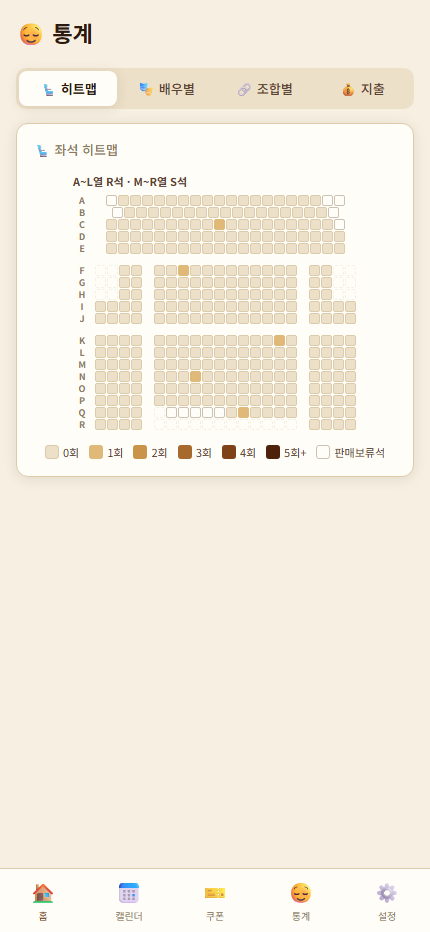
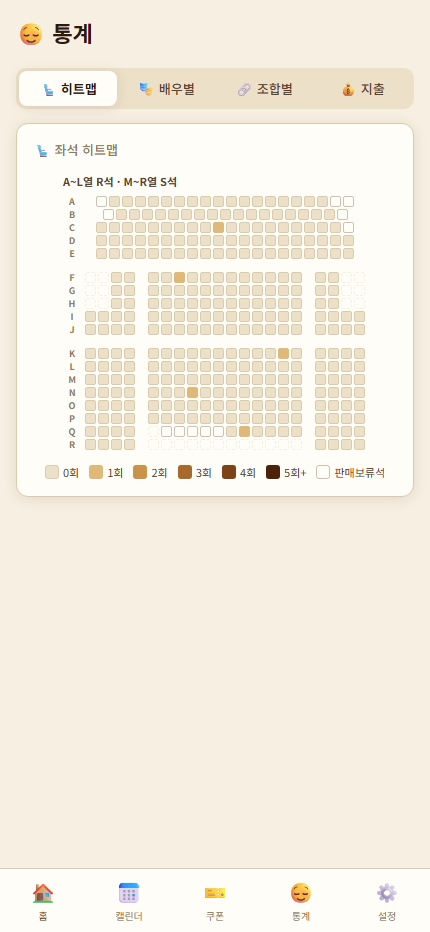
좌석도 간격 2px · 할인에 타임세일 · 배역 입력 한 줄
- 좌석도 가로·세로 간격을 모두 2px 로 (1px 은 너무 붙어 보였다)
- 할인권종에 타임세일 추가 — 회차마다 율이 달라 % 없이 맨 끝
- 기록 폼의 사무엘·H·헨리를 한 줄에

Changed region(s): [[0.0302, 0.1867, 0.9674, 0.529]]

diff --git a/index.html b/index.html
@@ -169,7 +169,7 @@
   .heatmap-tab{flex:1;padding:7px;border-radius:8px;border:1.5px solid var(--border);background:var(--bg3);color:var(--text2);font-size:13px;font-weight:600;cursor:pointer;text-align:center;}
   .heatmap-tab.active{background:var(--accent);color:#fff;border-color:var(--accent);}
   .heatmap-scroll{overflow-x:auto;}
-  .heatmap-wrap{padding:4px 0;display:flex;flex-direction:column;gap:1px;width:max-content;margin:0 auto;}
+  .heatmap-wrap{padding:4px 0;display:flex;flex-direction:column;gap:2px;width:max-content;margin:0 auto;}
   .hm-row{display:flex;align-items:center;gap:0;}
   .hm-label{width:18px;height:11px;line-height:11px;font-size:9px;color:var(--text3);text-align:center;font-weight:700;flex-shrink:0;}
   .hm-cell{width:11px;height:11px;border-radius:2px;background:var(--bg3);border:1px solid var(--border);flex-shrink:0;}
@@ -563,7 +563,7 @@
         </select>
       </div>
     </div>
-    <!-- 캐스팅 (3역할) -->
+    <!-- 캐스팅 (3역할 한 줄) -->
     <div class="form-row">
       <div class="form-group">
         <label class="form-label">사무엘</label>
@@ -579,8 +579,6 @@
           <option>박민성</option><option>김지철</option><option>조환지</option>
         </select>
       </div>
-    </div>
-    <div class="form-row">
       <div class="form-group">
         <label class="form-label">헨리</label>
         <select class="form-control" id="rec-henry">
@@ -646,6 +644,7 @@
         <option value="재관람 할인">재관람 할인 (30%)</option>
         <option value="재관람카드 40% 할인권">재관람카드 40% 할인권</option>
         <option value="복지할인">복지할인 (50%)</option>
+        <option value="타임세일">타임세일</option>
       </select>
       <div id="rec-discount-warn" style="display:none;margin-top:6px;font-size:12px;color:var(--danger);">⚠ 현재 보유한 쿠폰이 없습니다</div>
     </div>
@@ -1315,7 +1314,8 @@ const DISCOUNT_LABEL = {
   '윌리엄 할인':           '윌리엄 할인 (35%)',
   '재관람 할인':           '재관람 할인 (30%)',
   '재관람카드 40% 할인권': '재관람카드 40% 할인권',
-  '복지할인':              '복지할인 (50%)'
+  '복지할인':              '복지할인 (50%)',
+  '타임세일':              '타임세일'      // 회차마다 할인율이 달라 율을 적지 않는다
 };
 // 할인율 — 절감액 계산용 (정가: A~L열 R석 70,000원 / M~R열 S석 50,000원)
 const DISCOUNT_RATE = {
@@ -2025,7 +2025,7 @@ function buildMiniSeat(floor, rowKey, num) {
   const plan = SEAT_PLAN[floor];
   if (!plan) return '';
   // 히트맵과 같은 FLOOR_ZONES 를 쓴다 (따로 두면 두 좌석도가 어긋난다)
-  const C = 9, G = 1, ZG = 11;
+  const C = 9, G = 2, ZG = 11;
   const MAX  = FLOOR_ZONES[floor];
   const lead = floorLeadPx(floor, C, G, ZG);
   const seatNum = parseInt(num);
@@ -2890,7 +2890,7 @@ function renderHeatmap() {
   });
 
   // C=셀 너비, G=셀 간격(margin-right), ZG=구역 간격 div 너비
-  const C = 11, G = 1, ZG = 11;
+  const C = 11, G = 2, ZG = 11;
   const cls = c => !c ? '' : c >= 5 ? ' v5' : ' v' + c;
 
   function renderFloor(floor) {

diff --git a/selftest.html b/selftest.html
@@ -384,10 +384,10 @@ t('R. 기록', 'R9 — 스케줄과 다르게 적은 캐스팅은 castManual', (
 });
 
 // ── C. 할인 ───────────────────────────────────────────
-t('C. 할인', '할인 목록이 공식 8종 + 정가', () => {
+t('C. 할인', '할인 목록이 공식 8종 + 정가 + 타임세일', () => {
   const opts = [...W.document.getElementById('rec-discount-type').options].map(o => o.value).filter(Boolean);
   eq(opts, ['정가','프리뷰 할인','연애인 프리미엄 할인','셰익스피어의 할인','3인 클럽 할인',
-            '윌리엄 할인','재관람 할인','재관람카드 40% 할인권','복지할인']);
+            '윌리엄 할인','재관람 할인','재관람카드 40% 할인권','복지할인','타임세일']);
   opts.forEach(o => ok(g('DISCOUNT_LABEL')[o], `DISCOUNT_LABEL 에 '${o}' 없음`));
 });
 t('C. 할인', '할인율이 공식 안내와 일치', () => {

diff --git a/_shots.html b/_shots.html
@@ -91,6 +91,9 @@ frame.addEventListener('load', () => {
       document.documentElement.setAttribute('data-theme', THEME);
     }
 
+    // 기록 입력 폼 (배역 배치 확인용)
+    if (TAB === 'form') { W.openAddRecord('2026-12-12'); document.title = 'SHOT form'; return; }
+
     // 상세 패널 (미니 좌석도 확인용)
     if (TAB === 'detail') {
       const home = W.document.querySelector(`.tab-btn[onclick*="'home'"]`);
